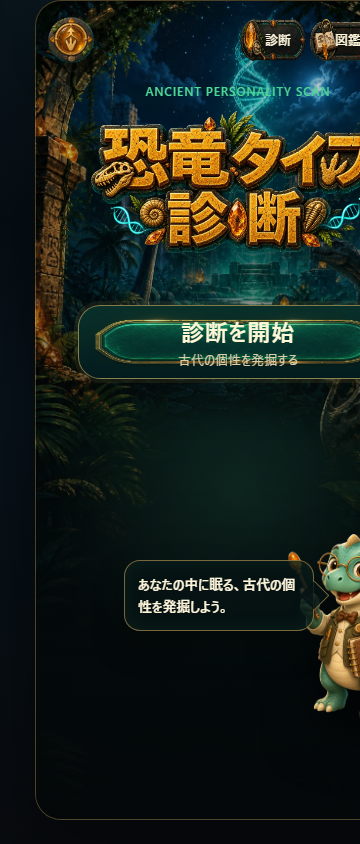
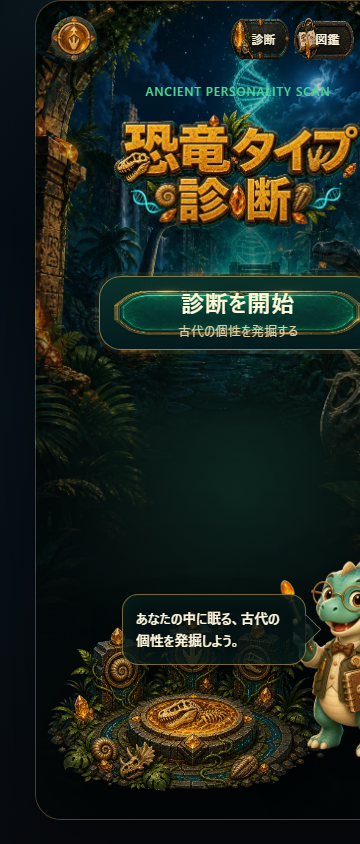
Enrich homepage lower hero

diff --git a/src/styles.css b/src/styles.css
@@ -104,23 +104,7 @@ a {
 }
 
 body[data-route="home"] .app-header {
-  position: absolute;
-  top: calc(env(safe-area-inset-top) + 16px);
-  right: 24px;
-  left: 24px;
-  width: auto;
-  padding: 0;
-  backdrop-filter: none;
-}
-
-body[data-route="home"] .pill-nav {
-  margin-right: 52px;
-}
-
-body[data-route="home"] .pill-nav a {
-  width: 68px;
-  padding-left: 20px;
-  font-size: 0.82rem;
+  display: none;
 }
 
 .menu-dot,
@@ -246,6 +230,28 @@ body[data-route="home"] .pill-nav a {
   box-shadow: var(--shadow);
 }
 
+.home-hud {
+  position: absolute;
+  top: 14px;
+  right: 14px;
+  left: 14px;
+  z-index: 6;
+  display: flex;
+  align-items: center;
+  justify-content: space-between;
+  gap: 12px;
+}
+
+.home-hud .pill-nav {
+  margin-right: clamp(56px, 15vw, 72px);
+}
+
+.home-hud .pill-nav a {
+  width: 62px;
+  padding-left: 18px;
+  font-size: 0.78rem;
+}
+
 .hero-art {
   position: absolute;
   inset: 0;
@@ -272,9 +278,9 @@ body[data-route="home"] .pill-nav a {
 .professor-mascot {
   position: absolute;
   right: 10px;
-  bottom: 94px;
-  z-index: 3;
-  width: clamp(112px, 32vw, 146px);
+  bottom: 56px;
+  z-index: 4;
+  width: clamp(120px, 34vw, 154px);
   height: auto;
   filter: drop-shadow(0 22px 26px rgba(0, 0, 0, 0.56));
 }
@@ -402,7 +408,7 @@ body[data-route="home"] .pill-nav a {
 
 .title-logo {
   display: block;
-  width: min(100%, 306px);
+  width: min(100%, 258px);
   height: auto;
   margin: 6px auto 0;
   filter: drop-shadow(0 20px 28px rgba(0, 0, 0, 0.58));
@@ -431,8 +437,8 @@ body[data-route="home"] .pill-nav a {
   flex-direction: column;
   gap: 4px;
   min-height: 74px;
-  width: min(100%, 320px);
-  margin: 46px auto 0;
+  width: min(100%, 278px);
+  margin: 42px auto 0;
   border-radius: 22px;
   color: #fff8d7;
   background:
@@ -442,12 +448,23 @@ body[data-route="home"] .pill-nav a {
   box-shadow: 0 0 0 4px rgba(246, 199, 107, 0.08), 0 16px 40px rgba(0, 0, 0, 0.4);
 }
 
+.home-pedestal {
+  position: absolute;
+  bottom: 22px;
+  left: 6px;
+  z-index: 2;
+  width: min(74%, 300px);
+  aspect-ratio: 980 / 622;
+  background: url("../assets/images/ui/home-pedestal.webp") center / contain no-repeat;
+  filter: drop-shadow(0 26px 32px rgba(0, 0, 0, 0.58));
+}
+
 .mascot-speech {
   position: absolute;
-  right: 126px;
-  bottom: 188px;
-  z-index: 4;
-  width: min(190px, calc(100% - 154px));
+  right: 134px;
+  bottom: 154px;
+  z-index: 5;
+  width: min(184px, calc(100% - 158px));
   margin: 0;
   padding: 12px 13px;
   border: 1px solid rgba(246, 199, 107, 0.48);
@@ -1111,6 +1128,21 @@ body[data-route="home"] .pill-nav a {
     margin-right: 0;
   }
 
+  .home-hud {
+    right: 18px;
+    left: 18px;
+  }
+
+  .home-hud .pill-nav {
+    margin-right: 86px;
+  }
+
+  .home-hud .pill-nav a {
+    width: 54px;
+    padding-left: 15px;
+    font-size: 0.72rem;
+  }
+
   .pill-nav a {
     width: 62px;
     padding-left: 18px;
@@ -1118,18 +1150,24 @@ body[data-route="home"] .pill-nav a {
   }
 
   .title-logo {
-    width: min(100%, 264px);
+    width: min(100%, 226px);
   }
 
   .professor-mascot {
-    width: 104px;
+    width: 114px;
     right: 6px;
-    bottom: 90px;
+    bottom: 54px;
+  }
+
+  .home-pedestal {
+    left: 2px;
+    bottom: 24px;
+    width: 72%;
   }
 
   .mascot-speech {
-    right: 102px;
-    bottom: 176px;
+    right: 110px;
+    bottom: 142px;
     width: min(164px, calc(100% - 126px));
     padding: 10px 11px;
     font-size: 0.78rem;

diff --git a/index.html b/index.html
@@ -30,6 +30,15 @@
 
     <template id="tpl-home">
       <section class="screen home-screen">
+        <div class="home-hud" aria-label="トップメニュー">
+          <a class="menu-dot" href="#home" aria-label="トップへ">
+            <img src="./assets/images/ui/home-button.webp" alt="" width="44" height="44">
+          </a>
+          <nav class="pill-nav" aria-label="メインナビゲーション">
+            <a class="nav-quiz" href="#quiz">診断</a>
+            <a class="nav-dex" href="#dex">図鑑</a>
+          </nav>
+        </div>
         <div class="hero-art" aria-hidden="true">
           <div class="dna"></div>
           <div class="fossil"></div>
@@ -46,6 +55,7 @@
           <strong>診断を開始</strong>
           <span>古代の個性を発掘する</span>
         </a>
+        <div class="home-pedestal" aria-hidden="true"></div>
         <p class="mascot-speech">あなたの中に眠る、古代の個性を発掘しよう。</p>
       </section>
     </template>

diff --git a/docs/asset_generation_status.md b/docs/asset_generation_status.md
@@ -219,6 +219,15 @@
 - サブタイトルを博士マスコット左側の吹き出しへ移動。
 - 背景プレートありの旧 `title-plate` は未使用になったため削除。
 
+## 2026-05-22 トップページ調整4
+
+### 完了
+
+- 下部の密度改善案として `docs/mockups/home-lower-quality-mock.png` をイラスト生成。
+- モック方針に合わせ、トップ専用HUDを背景カード内に配置。
+- 診断開始ボタン下の余白を埋める発掘台座アセット `home-pedestal` を生成し、下部左側に配置。
+- 博士マスコットと吹き出しを、下部台座とバランスする位置へ再配置。
+
 ## 2026-05-21 バッチ4
 
 ### 完了